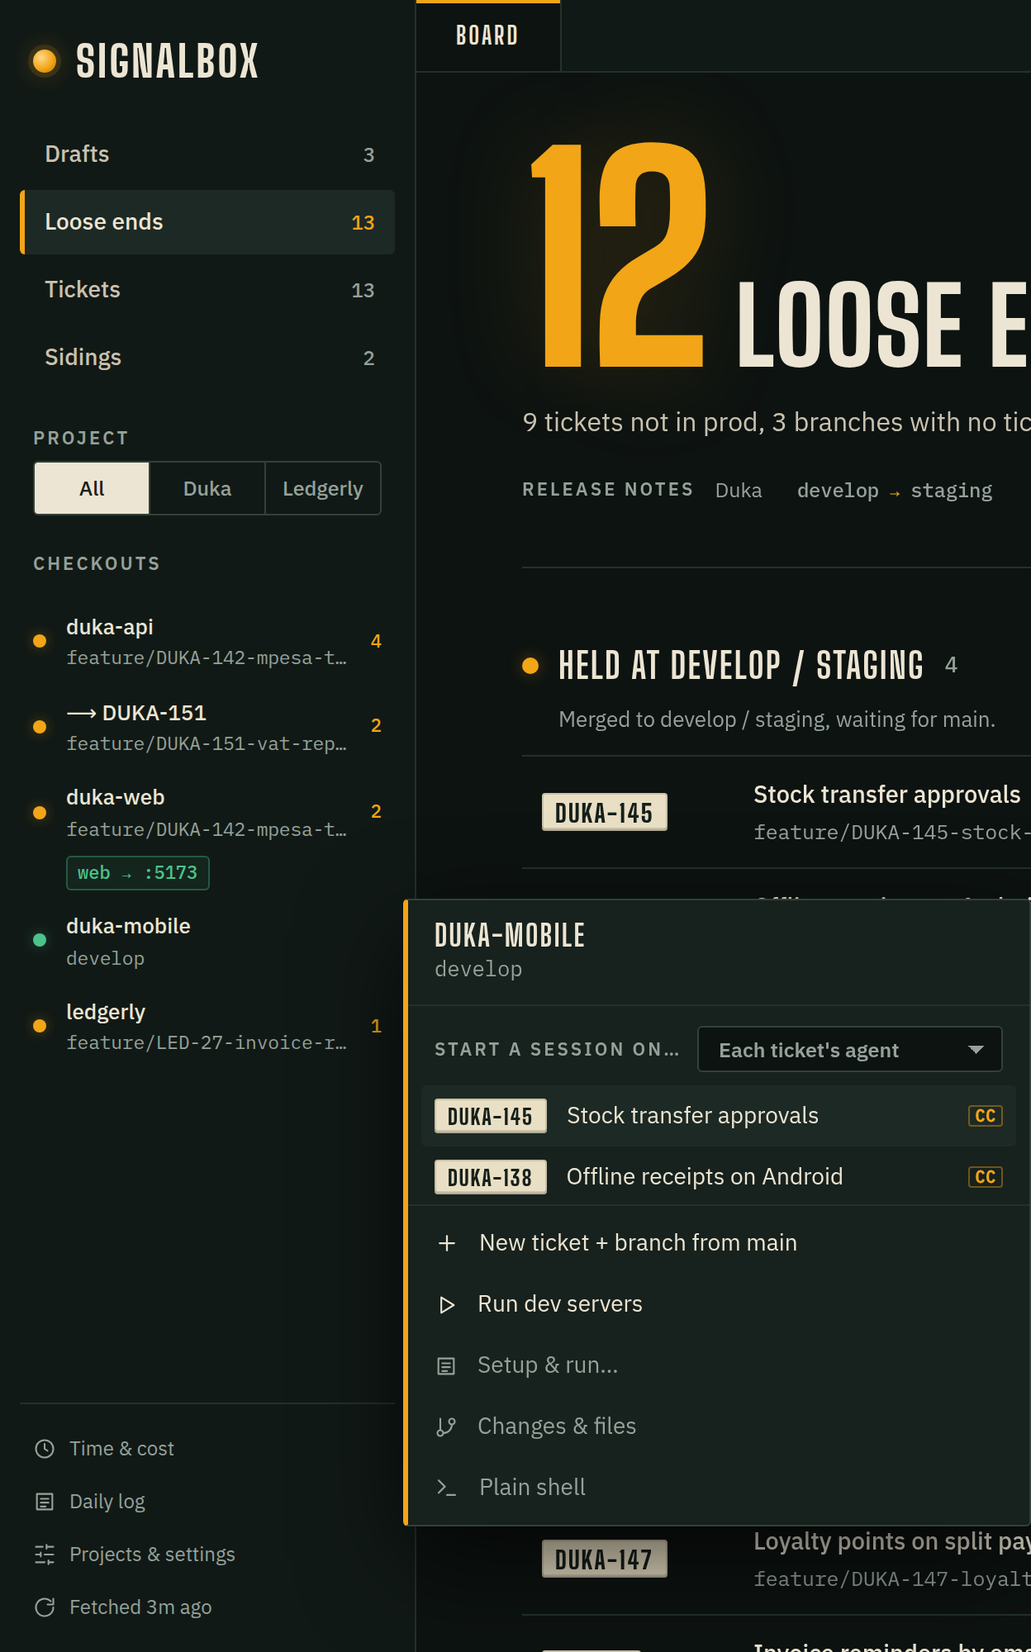
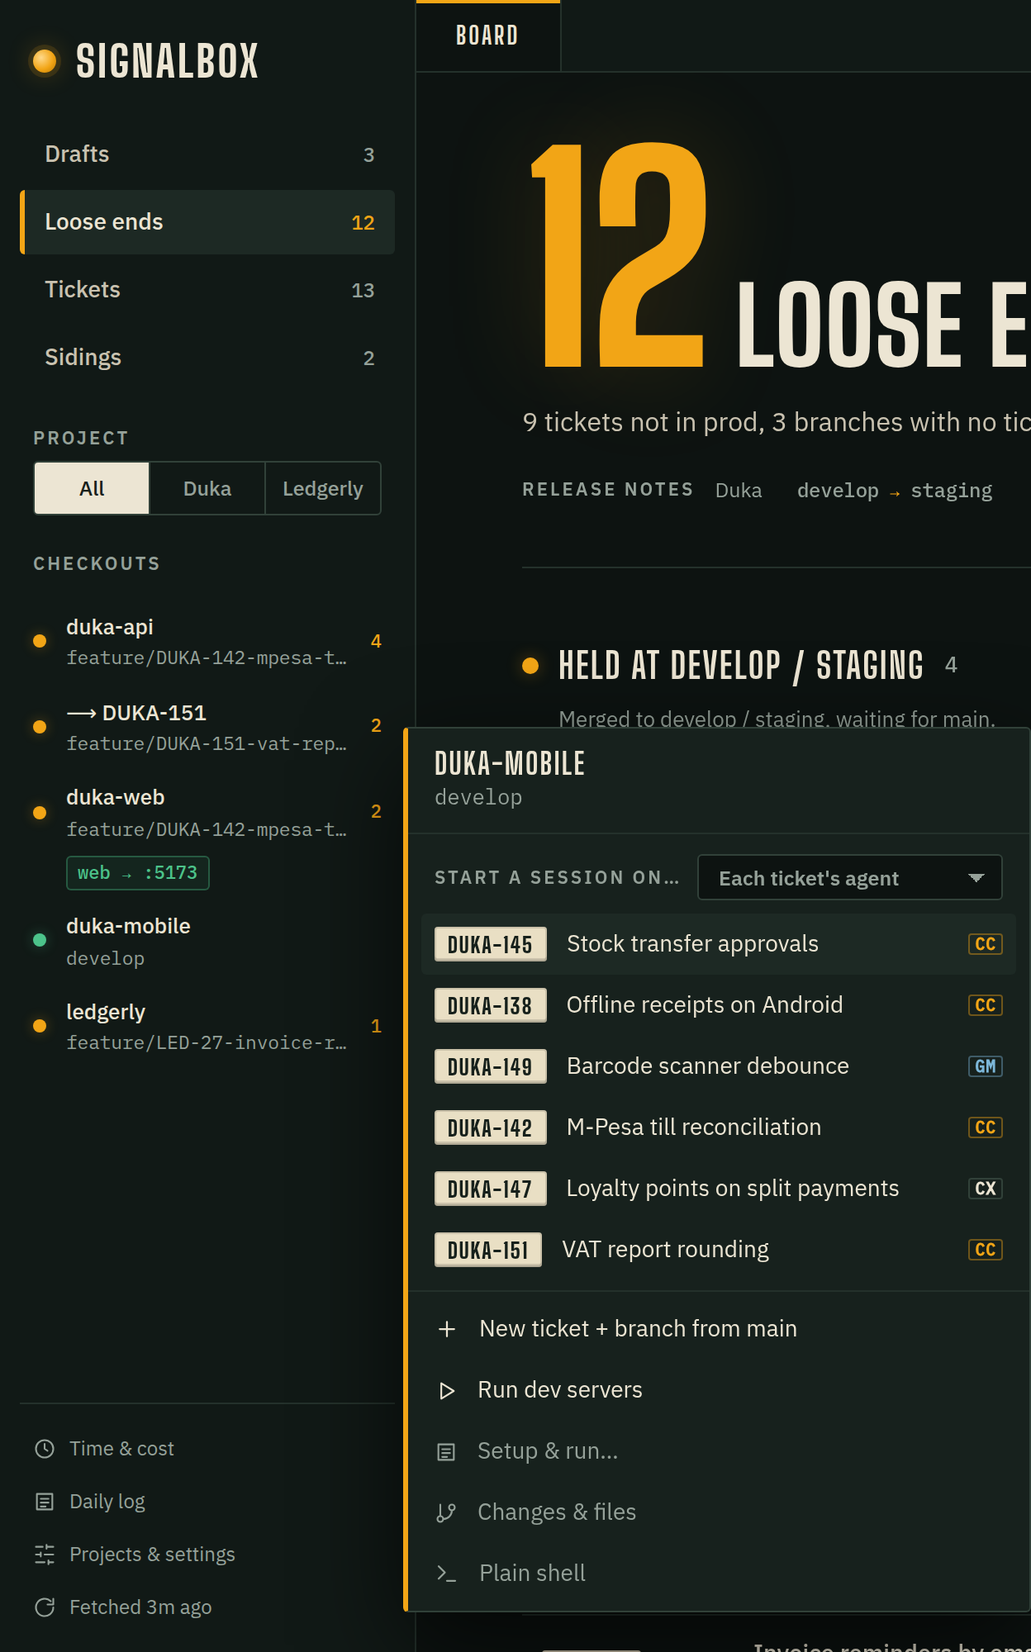
Sync from Signalbox v0.2.2

diff --git a/docs/manual/code-hosts.md b/docs/manual/code-hosts.md
@@ -25,21 +25,32 @@ Tokens are kept in your system keychain, not in Signalbox's database. When you e
 
 | Field | What to enter |
 |---|---|
-| **Name** | Anything, for example "Team Bitbucket" |
+| **Name** | Anything, for example "Acme Bitbucket" |
 | **Workspace** | Optional. Only repos in this workspace use the connection. Needed for a workspace access token. |
 | **Atlassian email** | The account your API token belongs to. Leave it empty for a workspace, project or repository access token. |
-| **API token** | An Atlassian API token, or an access token |
+| **API token** | An Atlassian API token with Bitbucket scopes, or an access token |
+
+The form lists the scopes under the token field, each with what it's for and a **Copy** button:
+
+| Scope | Used for |
+|---|---|
+| `read:repository:bitbucket` | Recommended. Reading the repos; no call needs it on its own, but it's the usual partner of the pull-request scopes. |
+| `read:pullrequest:bitbucket` | Pull requests on tickets: reviewers, comments, builds and default reviewers. |
+| `read:user:bitbucket` | The connection test: **Test** shows who you're signed in as. Without it, Test still says the token is accepted. |
+| `write:pullrequest:bitbucket` | Opening pull requests with [Create PR](create-a-pr.md). |
 
 To make an Atlassian API token:
 
 1. Go to **id.atlassian.com → Security → API tokens**.
 2. Click **Create API token with scopes** and choose **Bitbucket**.
-3. Tick every scope, or at least `read:pullrequest`, `read:repository` and `write:pullrequest`.
+3. Tick the scopes above. Ticking every Bitbucket scope works too.
 4. Copy the token into Signalbox with your Atlassian email.
 
-> **Warning:** Bitbucket refuses an Atlassian token that has no Bitbucket scopes at all. This is Bitbucket's rule, not Signalbox's. If Test says the token has no Bitbucket scopes, make a new one with Bitbucket scopes as above.
+> **Warning:** Bitbucket refuses an Atlassian API token that has no Bitbucket scopes. This is Bitbucket's rule, not Signalbox's: Signalbox never checks scopes itself, and any token with the scopes above works. If Test says the token has no Bitbucket scopes, make a new one as above.
 
-A token that works but can't read your profile (an access token, or a scoped token without the user scope) tests as "token accepted (it can't read your profile, which is fine)".
+A workspace, project or repository access token (no email) needs **Pull requests: Read**, plus **Write** for Create PR.
+
+A token that works but can't read your profile (an access token, or a token without `read:user:bitbucket`) tests as "token accepted (it can't read your profile, which is fine)".
 
 ## GitHub
 
@@ -51,10 +62,16 @@ A token that works but can't read your profile (an access token, or a scoped tok
 | **Use my gh login** | Tick to use the GitHub CLI's login instead of a token |
 | **Token** | A personal access token, if you don't use `gh` |
 
-For a token, use either:
+For a token, use either a fine-grained token or a classic one. The form lists what it needs under the token field:
 
-- a fine-grained token with **Pull requests**, **Commit statuses** and **Checks** read-only, plus **Pull requests: Read and write** if you want Create PR, or
-- a classic token with the `repo` scope.
+| Permission (fine-grained token, Repository permissions) | Used for |
+|---|---|
+| **Pull requests: Read** (**Read and write** for Create PR) | Pull requests, reviews and review comments on tickets; opening pull requests. |
+| **Commit statuses: Read** | Build statuses on a pull request. |
+| **Checks: Read** | Check runs, such as GitHub Actions, on a pull request. |
+| **Metadata: Read** | Added by GitHub automatically. |
+
+A classic token needs just the `repo` scope, which covers all of the above. Make either at **github.com → Settings → Developer settings → Personal access tokens**.
 
 **Use my gh login** is available when `gh auth login` has been run for that host. Signalbox reads the `gh` token each time it needs it and never stores it.
 

diff --git a/docs/manual/tracker-token-rejected.md b/docs/manual/tracker-token-rejected.md
@@ -15,7 +15,7 @@ When a tracker refuses Signalbox's sign-in, the connection's **Test**, tracker s
 5. Click **Test**. A working connection shows who you're signed in as.
 6. Click **Save**.
 
-Any valid token works. Signalbox doesn't ask for particular scopes; the tracker decides what the token may do, and Signalbox shows its answer.
+Any valid token works. Signalbox doesn't check scopes; the tracker decides what the token may do, and Signalbox shows its answer. The connection form lists what each tracker's token needs under the token field: Jira's project permissions, Notion's integration capabilities, and for Kanboard nothing (a personal API token has no scopes).
 
 > **Note:** Tokens are kept in your system keychain. If the message starts with `keychain:`, the keychain itself refused. Make sure it isn't locked, and on macOS choose **Always Allow** when asked. On Linux, a Secret Service such as GNOME Keyring must be running.
 
@@ -35,6 +35,7 @@ The **Base URL** is your Jira Cloud site's full HTTPS address, such as the one f
 |---|---|
 | `Kanboard rejected the username or API token (HTTP 401)` | Check **Username** is your Kanboard login, and **Personal API token** comes from **My profile → API** in Kanboard. |
 | `Kanboard doesn't allow <method> for this user (HTTP 403)` | Your Kanboard user can't do that in this project. Ask a Kanboard admin to add you to the project with enough rights. |
+| `This doesn't look like Kanboard's address. Use just the site address, e.g. …` | There's no Kanboard API at that address (HTTP 404). Use just the site address, such as the one for `kanban.example.com`. A pasted board link is cut down to it for you. |
 | `… didn't answer like Kanboard; check the URL` | The **Base URL** isn't a Kanboard server. Use the address you open Kanboard at. |
 
 See [Kanboard](kanboard.md).
@@ -45,7 +46,7 @@ See [Kanboard](kanboard.md).
 |---|---|
 | `Notion rejected the integration secret (HTTP 401)` | Copy the **Integration secret** again from your internal integration at notion.so/profile/integrations. |
 | `Notion can't see it: share the database with the integration in Notion (••• → Connections)` | Open the database in Notion, click **•••** → **Connections**, and add your integration. |
-| `the Notion integration isn't allowed to do this; check its capabilities (HTTP 403…)` | In the integration's settings in Notion, turn on the capability for what failed: reading, updating or inserting content, reading or inserting comments, or reading user information (needed for **Your Notion user**). |
+| `the Notion integration isn't allowed to do this; check its capabilities (HTTP 403…)` | In the integration's settings in Notion, turn on the capability for what failed: **Read content**, **Update content**, **Insert content**, **Insert comments**, or **Read user information including email addresses** (needed for **Your Notion user**). See [Notion](notion.md) for what each one is used for. |
 
 See [Notion](notion.md).
 
@@ -69,7 +70,7 @@ See [Board API](board-api.md).
 
 ## Code host tokens
 
-Bitbucket and GitHub tokens are set up under **Projects & settings → Code hosts**. Bitbucket has one rule of its own: it refuses Atlassian API tokens that have no Bitbucket scope at all. See [Code hosts](code-hosts.md).
+Bitbucket and GitHub tokens are set up under **Projects & settings → Code hosts**, where the form lists the scopes each token needs. Bitbucket has one rule of its own: it refuses Atlassian API tokens that have no Bitbucket scopes, so make the token with **Create API token with scopes → Bitbucket** and tick at least `read:pullrequest:bitbucket` (plus `write:pullrequest:bitbucket` for Create PR). See [Code hosts](code-hosts.md).
 
 ## Related
 

diff --git a/docs/manual/create-your-first-ticket.md b/docs/manual/create-your-first-ticket.md
@@ -34,7 +34,7 @@ Any of these opens **New ticket**:
 | **New ticket** on the **Tickets** view | The same. |
 | A checkout in the rail → **New ticket + branch from main** | The project, and that checkout as the place for the branch. |
 | A checkout in the rail → **New ticket for** `branch` | The project, a title from the branch name, and the existing branch to link. Shown when the checkout is on a branch no ticket owns. |
-| **Loose ends → Unclaimed branches → Ticket** | A title from the branch name, and the branch to link. |
+| **Loose ends → Unclaimed branches → Ticket** | A title from the branch name, the branch to link, and the key in the branch name (such as `DUKA-12` in `feature/DUKA-12-…`) as the ticket key when it's free. |
 | **Sidings → Attach → + New ticket from this session** | A title from the session, its branch, and the session to attach. |
 | **Drafts → Start** | The draft's text as the title and its notes. The draft is removed once the ticket exists. |
 
@@ -56,7 +56,7 @@ Shown when the project is linked to a tracker (Jira, Kanboard, Notion or a Board
 
 The title becomes the issue's title. When you create the ticket:
 
-- it takes the issue's key, such as `DUKA-155`, if that key is free in Signalbox; otherwise it gets the project's next number;
+- it takes the issue's key, such as `DUKA-155`, if that key is free in Signalbox. A number-only key, such as Kanboard's `#42`, becomes your project's prefix and that number (`DUKA-42`). Otherwise it gets the project's next number;
 - the issue's description and link go into the ticket's notes;
 - the ticket is linked to the issue, so it can move the issue along as the branch progresses.
 
@@ -80,7 +80,7 @@ The branch is always created from `origin/<prod>`, fetched fresh at that moment.
 
 | Choice | What happens |
 |---|---|
-| **Main Checkout** | The checkout you pick switches to the new branch. It must have no uncommitted changes; a checkout with changes is greyed out and shows **N uncommitted**. |
+| **Main Checkout** | The checkout you pick switches to the new branch. It must have no uncommitted changes; a checkout with changes is greyed out and shows **N uncommitted**. If every checkout of a repo has changes, the form says so ("… has uncommitted changes, so no branch can be created there. Pick New Worktree or commit first.") and **Switch to New Worktree** switches for you. |
 | **New Worktree** | A new folder is made for the branch at `<checkout>/.claude/worktrees/<name>`, where the name is the last part of the branch name (after the last `/`). The checkout itself stays as it is, changes and all. If the project has a worktree setup, it runs in a **Setup** tab to copy `.env` files and install dependencies. |
 
 Use a worktree when the checkout is busy with other work, or when you want several agents in the same repo at once.
@@ -115,6 +115,7 @@ The button says what will happen:
 | Button | When |
 |---|---|
 | **Create ticket** | No branch, or no agent to start. |
+| **Create ticket without a branch** | **Create a branch** is ticked, but there's no checkout to create it in (every checkout has uncommitted changes in Main Checkout). |
 | **Create & start Claude Code** (or Codex, …) | One agent will start. |
 | **Create & start Claude Code crew** | A crew where every member runs the same agent. |
 | **Create & start mixed crew** | A crew with different agents. |

diff --git a/docs/manual/kanboard.md b/docs/manual/kanboard.md
@@ -10,7 +10,7 @@ Connect Kanboard so each Signalbox ticket can link to a Kanboard task. You can i
 
 You need three things from Kanboard:
 
-- The full HTTPS address of your Kanboard, as your browser shows it, for example for `kanboard.example.com`. The address ending in `/jsonrpc.php` works too.
+- The HTTPS address of your Kanboard site, for example for `kanban.example.com`, or `example.com/kanboard` if Kanboard is installed in a folder. You can paste a board or task link, or the address ending in `/jsonrpc.php`: Signalbox cuts it down to the site address and shows that in the field.
 - Your Kanboard username (the login you sign in with).
 - A personal API token. In Kanboard, open **My profile → API** and copy the token.
 
@@ -60,7 +60,7 @@ The search box in **Import from tracker** and **Link existing…** takes words, 
 
 With **Mine** ticked, Signalbox adds `assignee:me` and `status:open`. With **Mine** off and an empty box, it lists open tasks. Results are newest first, up to 100.
 
-> **Note:** Kanboard tasks only have numbers, not keys. A ticket you create from a task gets your project's next key, such as `DUKA-12`.
+> **Note:** Kanboard tasks only have numbers, not keys. A ticket you create from task `#42` gets your project's prefix and the task number, such as `DUKA-42`. If that key is already taken, it gets the project's next key instead.
 
 ## QA columns are left alone
 
@@ -72,6 +72,7 @@ A passed verdict such as **QA PASSED** isn't held. It still moves on to your don
 
 - **the token was rejected:** check the username and token. The token belongs to the username you entered.
 - **not allowed with this token:** Kanboard refused the action. You may not be allowed to edit tasks in that project.
+- **This doesn't look like Kanboard's address:** Kanboard's API wasn't found at that address (HTTP 404). Use just the site address, such as the one for `kanban.example.com`, without any folder that isn't part of your Kanboard install.
 - Links in tasks point to `localhost`: Signalbox builds task links from your base URL, so they open the right address even when Kanboard's own URL setting is wrong.
 
 ## Related

diff --git a/docs/manual/notion.md b/docs/manual/notion.md
@@ -9,9 +9,19 @@ Connect a Notion database so its pages act as issues for your tickets. You can i
 ## Before you start
 
 1. Go to **notion.so/profile/integrations** and create an internal integration for your workspace.
-2. Give it these capabilities: read content, update content, insert content, read comments, insert comments, and **Read user information**. The last one lets you pick yourself in Signalbox.
+2. Under **Capabilities**, turn on the ones in the table below. The form lists them under the secret field too.
 3. Copy the integration secret.
 4. Open the database you use for tasks in Notion. Click **•••** → **Connections** and add your integration. Signalbox only sees databases shared this way.
+
+| Capability | Used for |
+|---|---|
+| **Read content** | Listing databases, searching and importing pages, reading statuses. |
+| **Update content** | Moving a page's status; **Replace** for a QA note. |
+| **Insert content** | **Create issue**, **Send to tracker**, and **Add below** for a QA note. |
+| **Insert comments** | Comments and QA notes as comments. |
+| **Read user information including email addresses** | Picking yourself under **Your Notion user**. |
+
+**Read comments** isn't needed: Signalbox only adds comments.
 
 ## Add the connection
 
@@ -43,7 +53,7 @@ If you skip step 6, the connection shows **no Notion user picked**, and "Mine" s
 
 | Feature | Works | Notes |
 |---|---|---|
-| Import a page when you create a ticket | Yes | A key like `TASK-12` becomes the ticket key when it's free. |
+| Import a page when you create a ticket | Yes | A key like `TASK-12` becomes the ticket key when it's free. A unique ID with no prefix, such as `#12`, becomes your project's prefix and that number, such as `DUKA-12`. |
 | Link an existing page | Yes | Search by words, or paste a page link or id. |
 | Create a page from a ticket | Yes | **Linked issue → Create issue**. |
 | Send a draft to Notion | Yes | **Send to tracker** on a draft. |

diff --git a/README.md b/README.md
@@ -4,7 +4,7 @@ Signalbox is a desktop app for macOS and Linux that keeps your tickets, git bran
 
 ![The Signalbox board: loose ends grouped as held at develop or staging and pushed but not merged, each ticket with its branch's lamps on the track, and agent sessions running in the sidebar](docs/images/board.png)
 
-**[Download Signalbox 0.2.1](https://signalbox.accessa.co.ke/download/)** for macOS or Linux · [Website](https://signalbox.accessa.co.ke/) · [Guides](https://signalbox.accessa.co.ke/guides/) · [Changelog](CHANGELOG.md) · [Releases](https://github.com/Accessa-suite/signalbox-app/releases)
+**[Download Signalbox 0.2.2](https://signalbox.accessa.co.ke/download/)** for macOS or Linux · [Website](https://signalbox.accessa.co.ke/) · [Guides](https://signalbox.accessa.co.ke/guides/) · [Changelog](CHANGELOG.md) · [Releases](https://github.com/Accessa-suite/signalbox-app/releases)
 
 This repository holds Signalbox's releases, documentation and issue tracker. The source code isn't published here.
 
@@ -27,7 +27,7 @@ This repository holds Signalbox's releases, documentation and issue tracker. The
 
 ## Download and install
 
-The current version is **0.2.1**, released 23 November 2026. Download it from **[signalbox.accessa.co.ke/download](https://signalbox.accessa.co.ke/download/)**, where the files' SHA-256 checksums are listed, or from [GitHub Releases](https://github.com/Accessa-suite/signalbox-app/releases).
+The current version is **0.2.2**, released 23 November 2026. Download it from **[signalbox.accessa.co.ke/download](https://signalbox.accessa.co.ke/download/)**, where the files' SHA-256 checksums are listed, or from [GitHub Releases](https://github.com/Accessa-suite/signalbox-app/releases).
 
 Signalbox runs the coding agents you already use. Install at least one and log in to it: Claude Code (`claude`), Codex (`codex`), Gemini CLI (`gemini`) or opencode (`opencode`). You'll also want `git`, and `gh` if you use GitHub.
 

diff --git a/CHANGELOG.md b/CHANGELOG.md
@@ -2,6 +2,22 @@
 
 Every Signalbox release, newest first. Also on [the website](https://signalbox.accessa.co.ke/changelog/). Installed copies update themselves.
 
+## 0.2.2 (2026-11-23)
+
+- QA note: post it as a comment or put it in the task's description (add below, or replace).
+- Settings: each tracker and code host lists the token scopes it needs, with copy buttons.
+- Kanboard: paste any board link and Signalbox keeps just the site address.
+- New ticket: tracker numbers like #42 become the ticket key; a checkout with uncommitted changes now says why no branch can be made and offers a new worktree.
+- Pull requests keep working on slow connections to Bitbucket, and keep showing the last result if a refresh fails.
+- Session tabs: Open ticket button, and the ticket title on hover.
+- Crews with three or more workers each get their own pane.
+- Files: new file, new folder, rename and delete.
+- Worktrees that share a repo with a known checkout are recognised everywhere.
+- Mobile: pick a phone, emulator or simulator for Run; Xcode as an editor on macOS.
+- Fixes: matching loose-ends counts; the checkout menu always shows its tickets.
+
+Downloads: [macOS .dmg](https://signalbox.accessa.co.ke/updates/0.2.2/Signalbox_0.2.2_universal.dmg) · [Linux AppImage](https://signalbox.accessa.co.ke/updates/0.2.2/Signalbox_0.2.2_amd64.AppImage) · [Linux .deb](https://signalbox.accessa.co.ke/updates/0.2.2/Signalbox_0.2.2_amd64.deb)
+
 ## 0.2.1 (2026-11-23)
 
 - Create PR fills in the title and description from the branch's latest commit.

diff --git a/docs/manual/import-from-a-tracker.md b/docs/manual/import-from-a-tracker.md
@@ -27,7 +27,7 @@ What the ticket gets:
 
 | From the issue | On the ticket |
 |---|---|
-| Key, such as `DUKA-155` | The ticket's key, when it looks like `ABC-123` and no ticket in Signalbox has it yet. Otherwise the ticket gets the project's next number. |
+| Key, such as `DUKA-155` | The ticket's key, when it looks like `ABC-123` and no ticket in Signalbox has it yet. A number-only key such as Kanboard's `#42` becomes your project's prefix and that number, such as `DUKA-42`. If the key is taken, or isn't either shape, the ticket gets the project's next number. |
 | Title | The title. You can edit it before creating. |
 | Description and link | The ticket's notes. |
 | The issue itself | A link. It shows under **Linked issue** in the drawer. |
@@ -36,7 +36,7 @@ With the default branch pattern, an imported key also goes into the branch name,
 
 Changed your mind? **Don't link** next to **Imported from** drops the issue but keeps the title.
 
-> **Note:** Issue keys that don't look like `ABC-123`, such as Kanboard's `#42`, don't become the ticket key. The ticket gets the project's next number and is still linked to the issue.
+> **Note:** Kanboard tasks and Notion pages without an ID prefix have number-only keys such as `#42`. The ticket key becomes your project's prefix and that number, such as `DUKA-42`, when it's free. The key in the form's heading shows what the ticket will get.
 
 ## Link an existing ticket to an issue
 

diff --git a/docs/manual/jira.md b/docs/manual/jira.md
@@ -10,7 +10,17 @@ Connect Jira Cloud so each Signalbox ticket can link to a Jira issue. You can im
 
 - Jira Cloud only: a site on `atlassian.net`, such as `acme.atlassian.net`. Jira Server and Data Center aren't supported.
 - The email you sign in to Atlassian with.
-- An Atlassian API token. Create one at **id.atlassian.com → Security → API tokens**.
+- An Atlassian API token. Create one at **id.atlassian.com → Security → API tokens → Create API token**.
+
+The token has no Jira scopes of its own: it acts as you, with your Jira project permissions. Signalbox never checks them; Jira does. The form lists what each feature needs:
+
+| Jira permission | Used for |
+|---|---|
+| **Browse Projects** | Listing projects, searching and importing issues. |
+| **Create Issues** | **Create issue** and **Send to tracker**. |
+| **Edit Issues** | A QA note in the description. |
+| **Transition Issues** | Moving issues as branches merge. |
+| **Add Comments** | Comments and QA notes as comments. |
 
 ## Add the connection
 

diff --git a/docs/manual/create-a-pr.md b/docs/manual/create-a-pr.md
@@ -60,7 +60,7 @@ On Bitbucket, the repo's default reviewers (from the repository and project sett
 ## If it fails
 
 - "No code host connection for …": add one in **Projects & settings → Code hosts**.
-- "… didn't let this token open a pull request (HTTP 403)": the token can read but not write. On Bitbucket, a scoped Atlassian token needs `write:pullrequest:bitbucket`; an access token needs **Pull requests: Write**. On GitHub, a fine-grained token needs **Pull requests: Read and write**, a classic token needs `repo`, and with **Use my gh login** run `gh auth refresh -s repo`.
+- "… didn't let this token open a pull request (HTTP 403)": the token can read but not write. On Bitbucket, your Atlassian API token needs `write:pullrequest:bitbucket`; an access token needs **Pull requests: Write**. On GitHub, a fine-grained token needs **Pull requests: Read and write**, a classic token needs `repo`, and with **Use my gh login** run `gh auth refresh -s repo`.
 
 ## Related
 

diff --git a/docs/manual/the-track.md b/docs/manual/the-track.md
@@ -33,7 +33,7 @@ Signalbox reads your checkouts every time the board reloads, and fetches every r
 
 ## Loose ends
 
-**Loose ends** is the board you start on. The big number counts work that isn't finished: tickets not in prod, branches with no ticket, and checkouts with uncommitted changes. Each group below it only appears when it has something in it.
+**Loose ends** is the board you start on. The big number counts work that isn't finished: tickets not in prod (backlog tickets with no branch aside) and branches with no ticket. The **Loose ends** count in the rail is the same number. Checkouts with uncommitted changes and shipped tickets are listed below it but not counted. Each group below it only appears when it has something in it.
 
 ![Loose ends, with tickets held at develop and staging](images/loose-ends.png)
 
